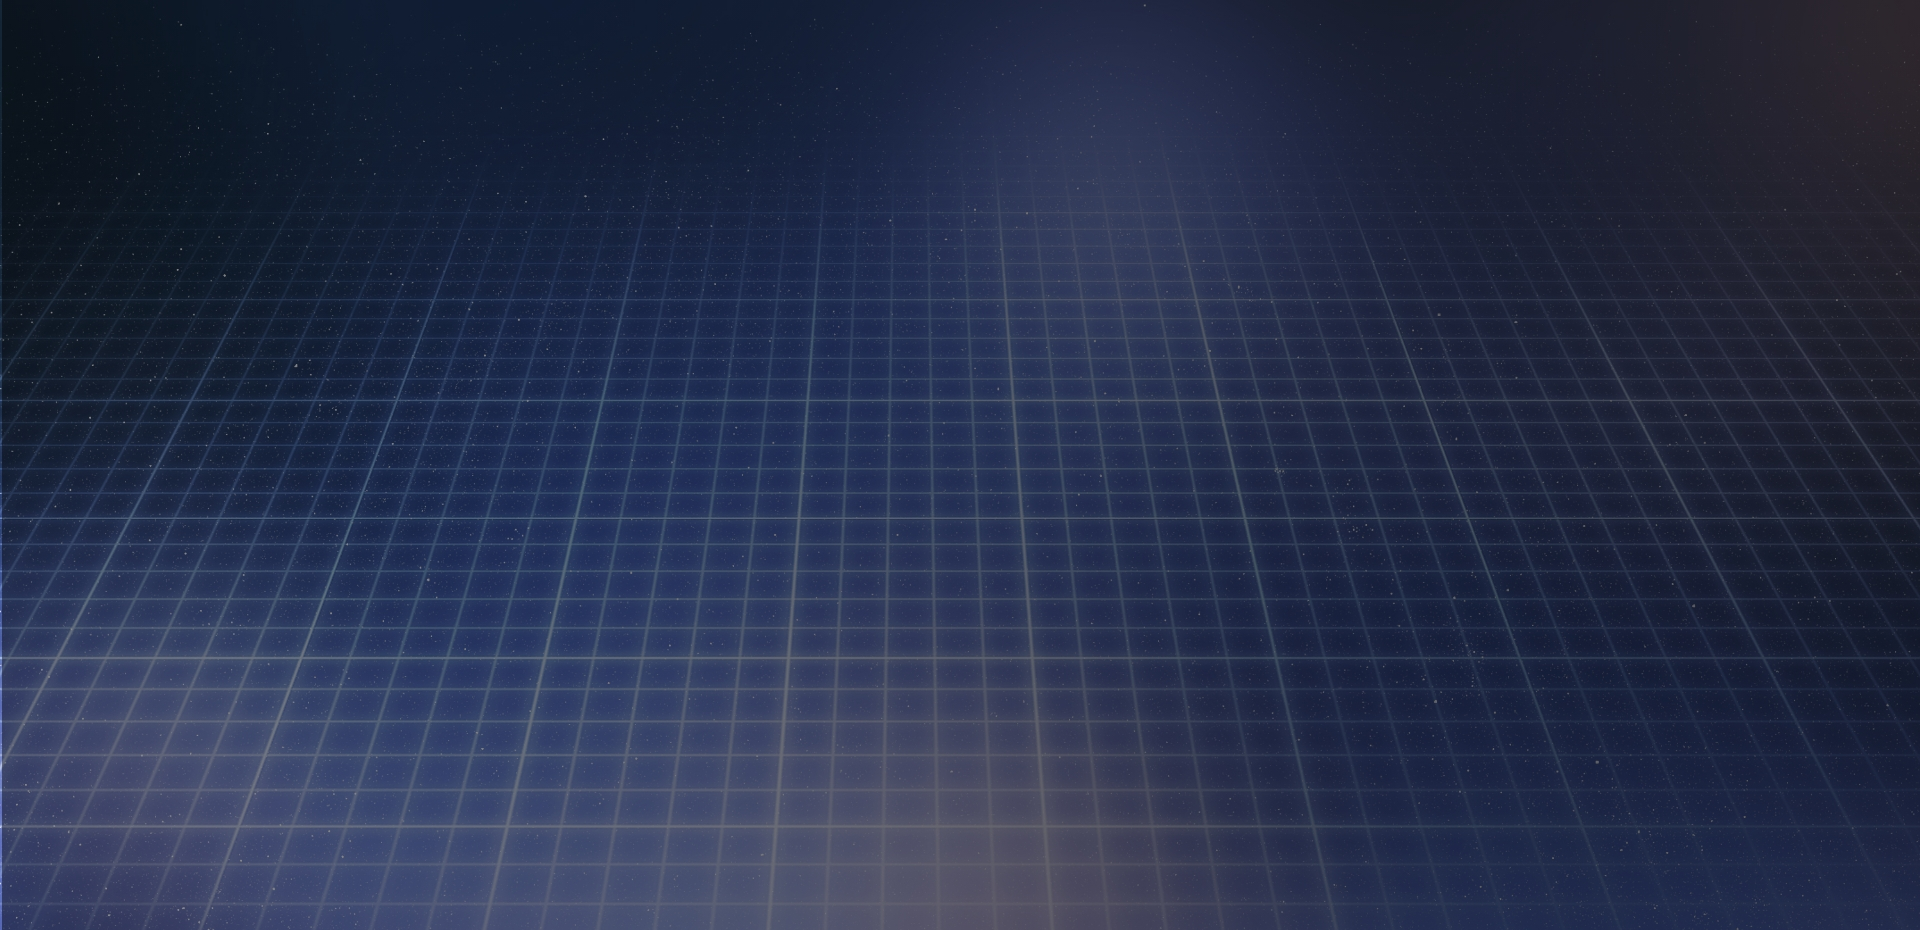
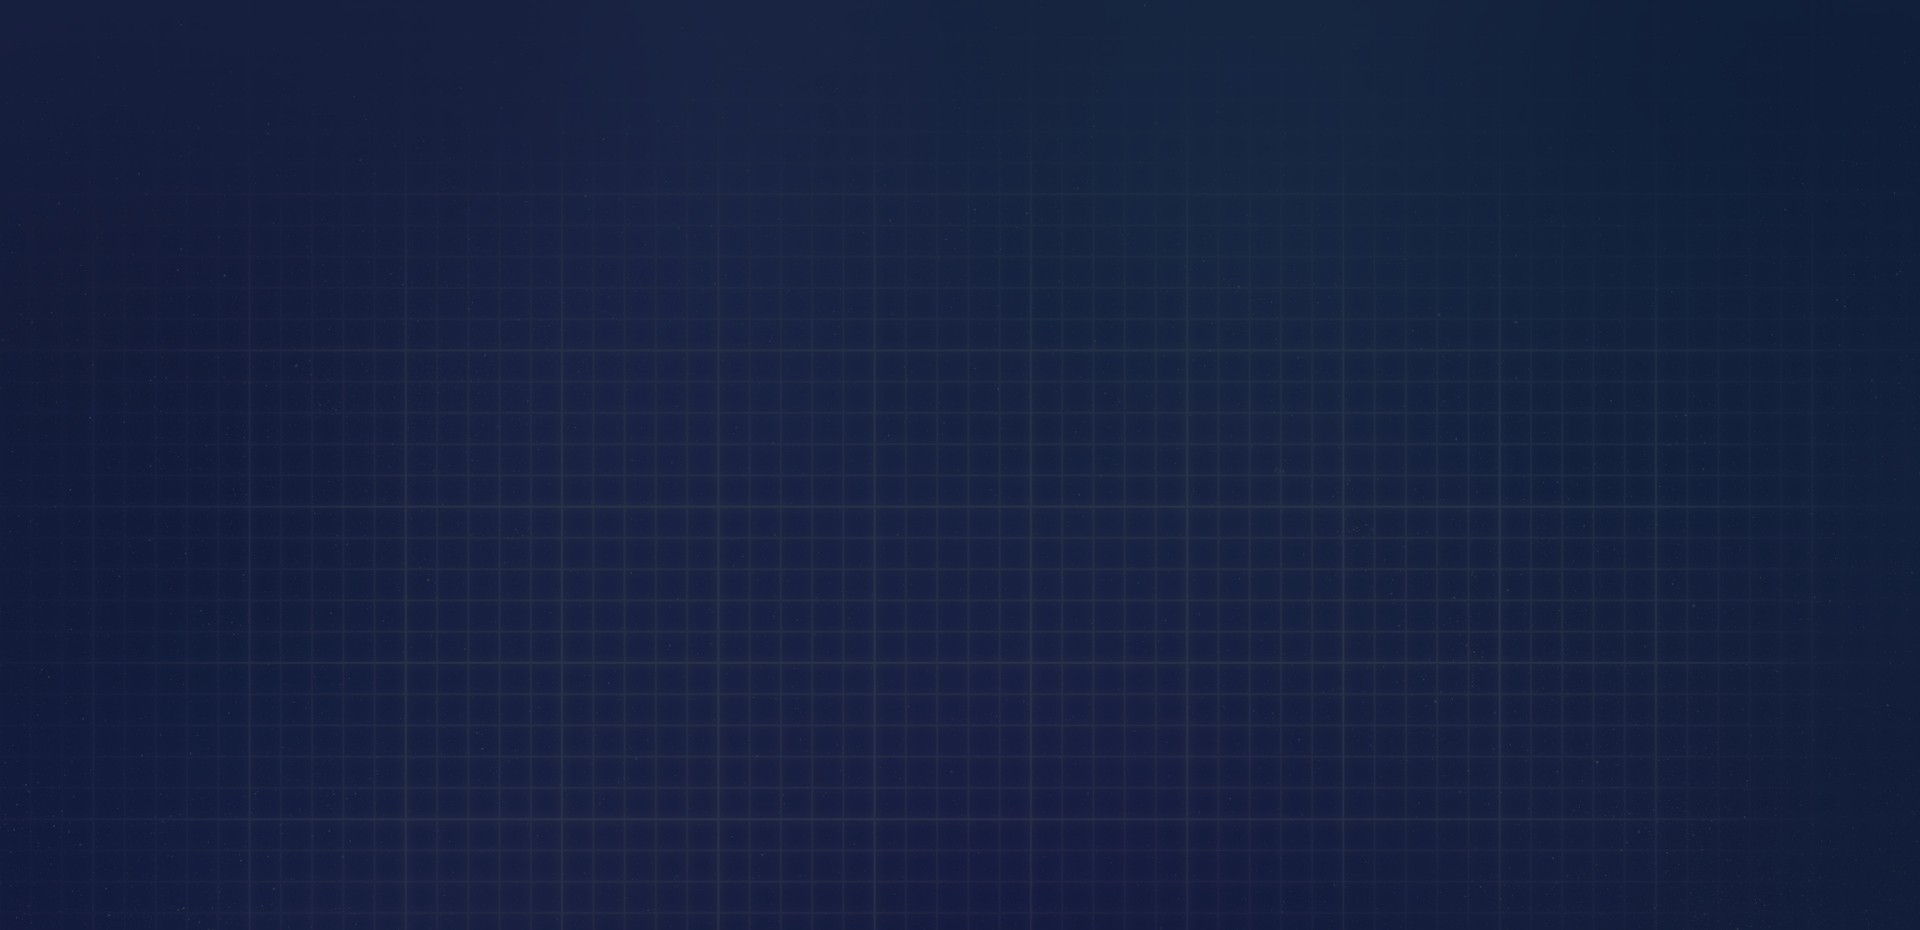
dawd

diff --git a/index.html b/index.html
@@ -221,7 +221,7 @@
       </div>
     </div>
   </section>
-  <section id="about">
+  <section id="about" style="background: url('assets/img/hero_bg_2.jpg?v=2.1');">
     <div class="cs-height_75 cs-height_lg_45"></div>
     <div class="container">
       <div class="row align-items-center flex-column-reverse-lg">
@@ -251,7 +251,7 @@ in our project we will create our own network which will be integrated with mult
       </div>
     </div>
   </section>
-  <section>
+  <section style="background: url('assets/img/hero_bg_2.jpg?v=2.0');">
     <div class="container">
       <div class="row">
         <div class="col-12 col-md-4">
